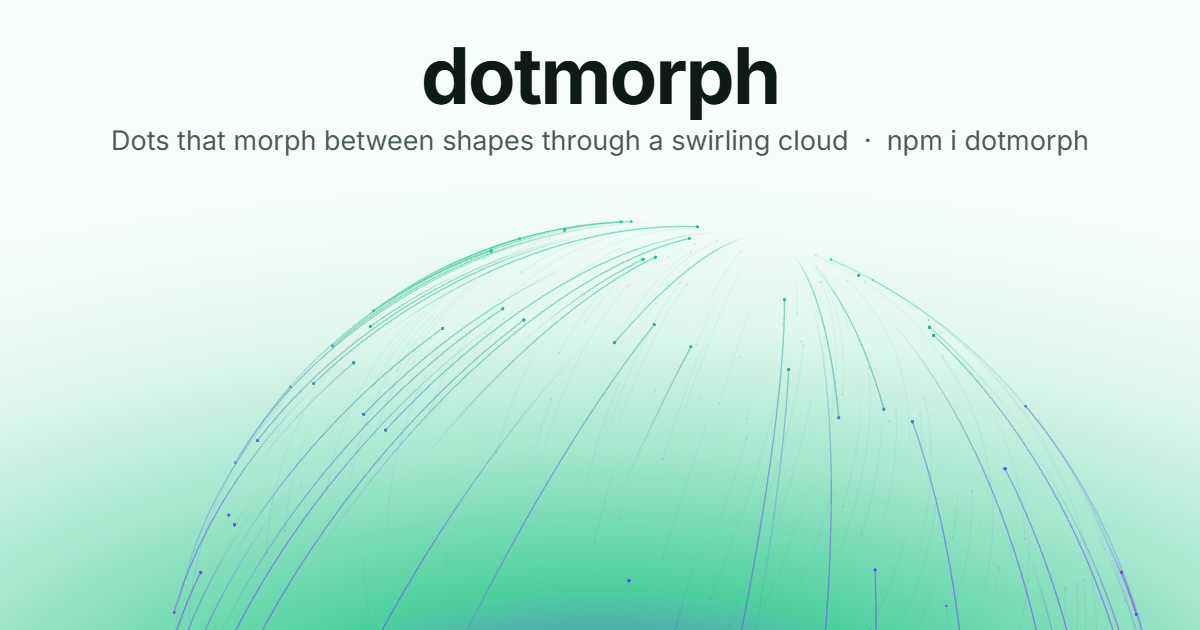
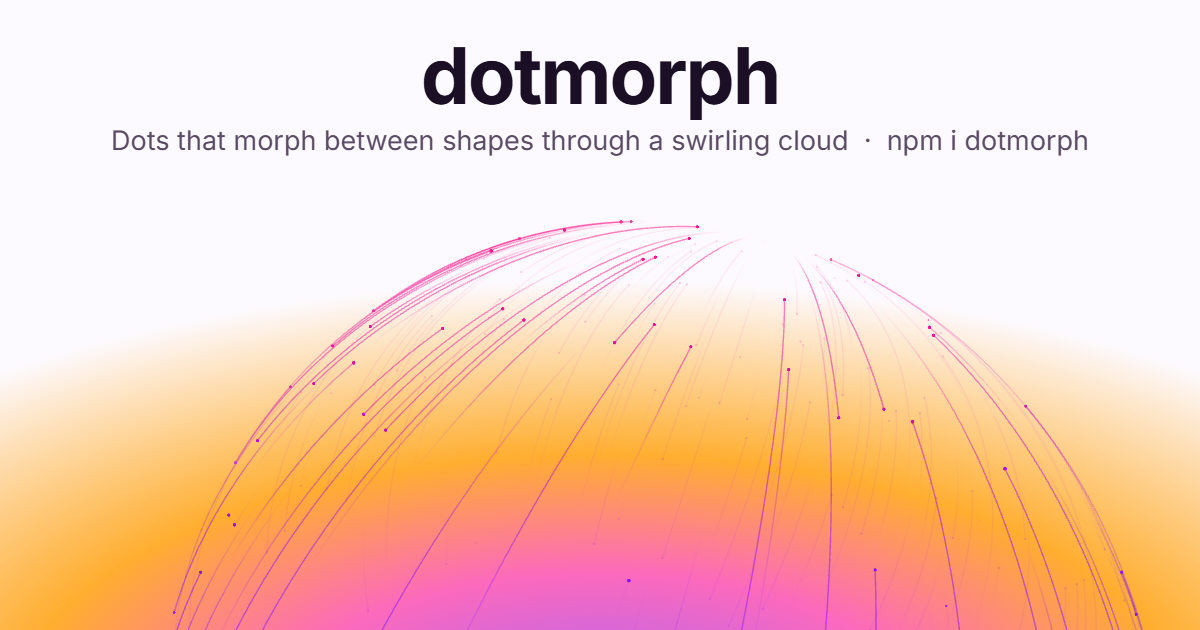
Release 0.3.0: rich multi-colour palette backgrounds again
The built-in palettes get multi-colour glows arching up from the bottom
edge, like the first version: aurora is a warm sunrise again (violet,
pink, apricot, cream) with purple dots rising to hot pink, and the other
five follow the same style. Colour values are our own and stay clearly
apart from any reference palette.

Also: site accents, favicon, badges, demo.webp and og.png follow the new
aurora; docs and the palette table are updated. Includes the Node16 type
resolution fix from 4a475d1.

diff --git a/packages/dotmorph/src/core/palettes.ts b/packages/dotmorph/src/core/palettes.ts
@@ -37,23 +37,48 @@ export function paletteBackground(top: string, bottom: string, dark = false): st
   return `${shape}, ${mixHex(bottom, top, 0.35)} 0%, ${mixHex(top, '#ffffff', 0.2)} 20%, ${mixHex(top, '#ffffff', 0.6)} 40%, ${mixHex(top, '#ffffff', 0.86)} 58%, ${paper} 78%)`;
 }
 
-function palette(top: string, bottom: string, extra: Partial<Palette> = {}): Palette {
-  return { top, bottom, ...extra, background: paletteBackground(top, bottom, extra.dark) };
-}
+/** The glow every built-in background shares: an arch rising from just below the bottom edge. */
+const GLOW = 'radial-gradient(136% 116% at 50% 114%';
 
 export const PALETTES: Record<PaletteName, Palette> = {
-  /** Green into violet, like northern lights. */
-  aurora: palette('#22c486', '#6d3cf2'),
-  /** Azure into deep indigo. */
-  ocean: palette('#2d8cf0', '#1d2a9c'),
-  /** Amber into red. */
-  ember: palette('#ffa43a', '#e0314f'),
-  /** Aqua into blue. */
-  mint: palette('#2fd3c0', '#1768c9'),
-  /** Rose into plum. */
-  rose: palette('#ff5c8a', '#9b1c7a'),
-  /** Ice into violet, on a dark night. */
-  midnight: palette('#9af0ff', '#8a63ff', { dark: true, rampEnd: 0.9 }),
+  /** Sunrise: violet on the horizon, then pink, apricot and cream; purple dots rising to hot pink. */
+  aurora: {
+    top: '#ff1486',
+    bottom: '#850fff',
+    background: `${GLOW}, #a462ff 0%, #fc6abc 20%, #ffae30 36%, #fdfaff 60%)`,
+  },
+  /** Morning sea: deep blue under sky blue, fading to pale air. */
+  ocean: {
+    top: '#2b9ff2',
+    bottom: '#1830b0',
+    background: `${GLOW}, #017de6 0%, #49b0fa 16%, #92d0ff 32%, #f5f9ff 64%)`,
+  },
+  /** Firelight: red-orange under orange and peach; crimson dots rising to amber. */
+  ember: {
+    top: '#f98316',
+    bottom: '#d01040',
+    background: `${GLOW}, #ff5c1f 0%, #ff914d 20%, #fffaf3 68%)`,
+  },
+  /** Lagoon: teal under aqua, fading to a cool white; deep-blue dots rising to teal. */
+  mint: {
+    top: '#12b39c',
+    bottom: '#0b56a0',
+    background: `${GLOW}, #00a890 0%, #5de2c4 16%, #a4f5dd 36%, #f5fffb 68%)`,
+  },
+  /** Sunset: coral into pink into lilac; plum dots rising to rose. */
+  rose: {
+    top: '#d8378e',
+    bottom: '#7a1f8a',
+    background: `${GLOW}, #ff7a6a 0%, #ff6f9e 16%, #e890e0 32%, #f5b8eb 48%, #fffafd 68%)`,
+  },
+  /** Deep night: a periwinkle glow on the horizon rising through purple into navy; ice-white dots. */
+  midnight: {
+    top: '#dde2ff',
+    bottom: '#9ee7ff',
+    rampEnd: 0.9,
+    dark: true,
+    background: `${GLOW}, #a8b8ff 0%, #7a48e4 20%, #3a1a9a 40%, #1c006c 60%, #00004c 88%)`,
+  },
 };
 
 export function resolvePalette(palette: PaletteName | Palette): Palette {

diff --git a/site/src/styles.css b/site/src/styles.css
@@ -11,8 +11,8 @@
   --border: #1f1f1f;
   --border-2: #2a2a2a;
   --code-bg: #0c0c0c;
-  --accent: #22c486;
-  --accent-2: #6d3cf2;
+  --accent: #ff1486;
+  --accent-2: #850fff;
   --font: "Inter Variable", "Segoe UI", "SF Pro Display", "Helvetica Neue", Helvetica, Arial, sans-serif;
   --mono: ui-monospace, "SF Mono", "Cascadia Mono", Menlo, Consolas, monospace;
 }
@@ -61,7 +61,7 @@ a {
   border-radius: 16px;
   background: var(--card);
   border: 1px solid var(--border);
-  box-shadow: 0 0 60px rgba(109, 60, 242, 0.16);
+  box-shadow: 0 0 60px rgba(133, 15, 255, 0.16);
   margin-bottom: 18px;
 }
 

diff --git a/site/src/components/Icons.tsx b/site/src/components/Icons.tsx
@@ -48,8 +48,8 @@ export function LogoMark({ size = 44 }: { size?: number }) {
     <svg width={size} height={size} viewBox="0 0 44 44" aria-hidden="true" className="logo-mark">
       <defs>
         <linearGradient id="lm" x1="0" y1="0" x2="0" y2="1">
-          <stop offset="0" stopColor="#22c486" />
-          <stop offset="1" stopColor="#6d3cf2" />
+          <stop offset="0" stopColor="#ff1486" />
+          <stop offset="1" stopColor="#850fff" />
         </linearGradient>
       </defs>
       {dots.map(([x, y, r], i) => (

diff --git a/docs/API.md b/docs/API.md
@@ -496,7 +496,7 @@ interface Palette {
 
 The engine reads only `top`, `bottom` and `rampEnd`.
 
-Dots and lines are drawn in exactly the colours you pass: the ramp is mixed in sRGB, like CSS gradients, so `#22c486` on the canvas matches `#22c486` in your stylesheet.
+Dots and lines are drawn in exactly the colours you pass: the ramp is mixed in sRGB, like CSS gradients, so `#ff1486` on the canvas matches `#ff1486` in your stylesheet.
 
 ### Built-in palettes
 
@@ -504,22 +504,22 @@ Dots and lines are drawn in exactly the colours you pass: the ramp is mixed in s
 
 | name | top | bottom | rampEnd | dark | description |
 | --- | --- | --- | --- | --- | --- |
-| `aurora` | `#22c486` | `#6d3cf2` | 0.8 (default) | no | Green into violet, like northern lights. |
-| `ocean` | `#2d8cf0` | `#1d2a9c` | 0.8 (default) | no | Azure into deep indigo. |
-| `ember` | `#ffa43a` | `#e0314f` | 0.8 (default) | no | Amber into red. |
-| `mint` | `#2fd3c0` | `#1768c9` | 0.8 (default) | no | Aqua into blue. |
-| `rose` | `#ff5c8a` | `#9b1c7a` | 0.8 (default) | no | Rose into plum. |
-| `midnight` | `#9af0ff` | `#8a63ff` | 0.9 | yes | Ice into violet, on a dark night. |
+| `aurora` | `#ff1486` | `#850fff` | 0.8 (default) | no | Sunrise: violet on the horizon, then pink, apricot and cream. Purple dots rising to hot pink. |
+| `ocean` | `#2b9ff2` | `#1830b0` | 0.8 (default) | no | Morning sea: deep blue under sky blue, fading to pale air. |
+| `ember` | `#f98316` | `#d01040` | 0.8 (default) | no | Firelight: red-orange under orange and peach. Crimson dots rising to amber. |
+| `mint` | `#12b39c` | `#0b56a0` | 0.8 (default) | no | Lagoon: teal under aqua, fading to a cool white. |
+| `rose` | `#d8378e` | `#7a1f8a` | 0.8 (default) | no | Sunset: coral into pink into lilac. Plum dots rising to rose. |
+| `midnight` | `#dde2ff` | `#9ee7ff` | 0.9 | yes | Deep night: a periwinkle glow rising through purple into navy. Ice-white dots. |
 
-Every built-in palette's `background` is generated by `paletteBackground(top, bottom, dark)`:
+Every built-in palette has its own hand-tuned `background`: a glow of several colours arching up from just below the bottom edge and fading to near-white (or, for `midnight`, to deep navy) by about the middle of the canvas. For your own palettes, `paletteBackground()` makes a simpler glow from the two ramp colours.
 
 ```ts
 import { PALETTES } from 'dotmorph';
 
 const light = PALETTES.aurora.background;
-// radial-gradient(140% 110% at 50% 115%, #536ccc 0%, #4ed09e 20%, #a7e7cf 40%, #e0f7ee 58%, #f7fdfb 78%)
+// radial-gradient(136% 116% at 50% 114%, #a462ff 0%, #fc6abc 20%, #ffae30 36%, #fdfaff 60%)
 const dark = PALETTES.midnight.background;
-// radial-gradient(140% 110% at 50% 115%, #8d7fff 0%, #523c99 24%, #261d4a 46%, #0d0c1d 72%)
+// radial-gradient(136% 116% at 50% 114%, #a8b8ff 0%, #7a48e4 20%, #3a1a9a 40%, #1c006c 60%, #00004c 88%)
 ```
 
 ### paletteBackground

diff --git a/README.md b/README.md
@@ -8,9 +8,9 @@ An open-source WebGL effect on three.js, with a React component and a playground
 
 [**Live demo and playground**](https://dotmorph.shni.me) · [npm](https://www.npmjs.com/package/dotmorph) · [API reference](docs/API.md) · [Recipes](docs/RECIPES.md)
 
-[![npm](https://img.shields.io/npm/v/dotmorph?color=22c486&label=npm)](https://www.npmjs.com/package/dotmorph)
+[![npm](https://img.shields.io/npm/v/dotmorph?color=ff1486&label=npm)](https://www.npmjs.com/package/dotmorph)
 [![CI](https://github.com/shniii/dotmorph/actions/workflows/ci.yml/badge.svg)](https://github.com/shniii/dotmorph/actions/workflows/ci.yml)
-[![license](https://img.shields.io/github/license/shniii/dotmorph?color=6d3cf2)](LICENSE)
+[![license](https://img.shields.io/github/license/shniii/dotmorph?color=850fff)](LICENSE)
 
 <img src="site/public/demo.webp" alt="dotmorph cycling through a burst, a globe, a wave and a fan, the dots gathering in a swirling cloud between each shape" width="800" />
 
@@ -90,7 +90,7 @@ Each dot's own progress is shifted by a random amount (`stagger`), and it travel
 
 ### Colour
 
-Dots and lines are coloured by their height on the *screen*, from the palette's `bottom` colour to its `top` colour, so the gradient stays fixed to the viewport while the shapes move through it. Each palette's CSS background is generated from the same two colours (`paletteBackground()`), so your own palettes get one too. Changing palettes fades the colours over 0.7 s.
+Dots and lines are coloured by their height on the *screen*, from the palette's `bottom` colour to its `top` colour, so the gradient stays fixed to the viewport while the shapes move through it. Each built-in palette comes with a matching CSS background: a glow of several colours arching up from the bottom edge. For your own palettes, `paletteBackground()` builds one from the two ramp colours. Changing palettes fades the colours over 0.7 s.
 
 ## Repository
 

diff --git a/CHANGELOG.md b/CHANGELOG.md
@@ -6,6 +6,26 @@ All notable changes to `dotmorph` are documented here. The format follows
 
 ## [Unreleased]
 
+## [0.3.0] - 2026-09-28
+
+### Changed
+
+- The built-in palettes get rich, multi-colour backgrounds again: a glow of
+  several colours arching up from just below the bottom edge and fading to
+  near-white (or deep navy for `midnight`) by about the middle of the canvas.
+  `aurora`, the default, is a warm sunrise again (violet, pink, apricot and
+  cream) with purple dots rising to hot pink. Every palette's dot colours
+  changed with it; see the table in docs/API.md.
+- `paletteBackground()` is unchanged and still builds a simpler glow from two
+  colours for your own palettes.
+
+### Fixed
+
+- The published type declarations use `.js` extensions in their relative
+  imports, so they resolve under `moduleResolution` `node16`/`nodenext`.
+  Before, every dotmorph type silently became `any` there. `dotmorph/react`
+  types also resolve under the legacy `node10` setting.
+
 ## [0.2.0] - 2026-09-27
 
 ### Changed
@@ -86,6 +106,7 @@ First public release.
   palettes.
 - Pointer interaction that pushes dots and lines aside.
 
-[Unreleased]: https://github.com/shniii/dotmorph/compare/v0.2.0...HEAD
+[Unreleased]: https://github.com/shniii/dotmorph/compare/v0.3.0...HEAD
+[0.3.0]: https://github.com/shniii/dotmorph/compare/v0.2.0...v0.3.0
 [0.2.0]: https://github.com/shniii/dotmorph/compare/v0.1.0...v0.2.0
 [0.1.0]: https://github.com/shniii/dotmorph/releases/tag/v0.1.0

diff --git a/packages/dotmorph/README.md b/packages/dotmorph/README.md
@@ -8,9 +8,9 @@ WebGL on three.js, with a React component. Made by [Shnyar](https://x.com/shnull
 
 [Live demo and playground](https://dotmorph.shni.me) · [GitHub](https://github.com/shniii/dotmorph) · [API reference](https://github.com/shniii/dotmorph/blob/main/docs/API.md) · [Recipes](https://github.com/shniii/dotmorph/blob/main/docs/RECIPES.md)
 
-[![npm](https://img.shields.io/npm/v/dotmorph?color=22c486&label=npm)](https://www.npmjs.com/package/dotmorph)
-[![license](https://img.shields.io/npm/l/dotmorph?color=6d3cf2)](https://github.com/shniii/dotmorph/blob/main/LICENSE)
-[![types](https://img.shields.io/npm/types/dotmorph?color=2d8cf0)](https://www.npmjs.com/package/dotmorph)
+[![npm](https://img.shields.io/npm/v/dotmorph?color=ff1486&label=npm)](https://www.npmjs.com/package/dotmorph)
+[![license](https://img.shields.io/npm/l/dotmorph?color=850fff)](https://github.com/shniii/dotmorph/blob/main/LICENSE)
+[![types](https://img.shields.io/npm/types/dotmorph?color=2b9ff2)](https://www.npmjs.com/package/dotmorph)
 
 <img src="https://dotmorph.shni.me/demo.webp" alt="dotmorph cycling through a burst, a globe, a wave and a fan, the dots gathering in a swirling cloud between each shape" width="800" />
 
